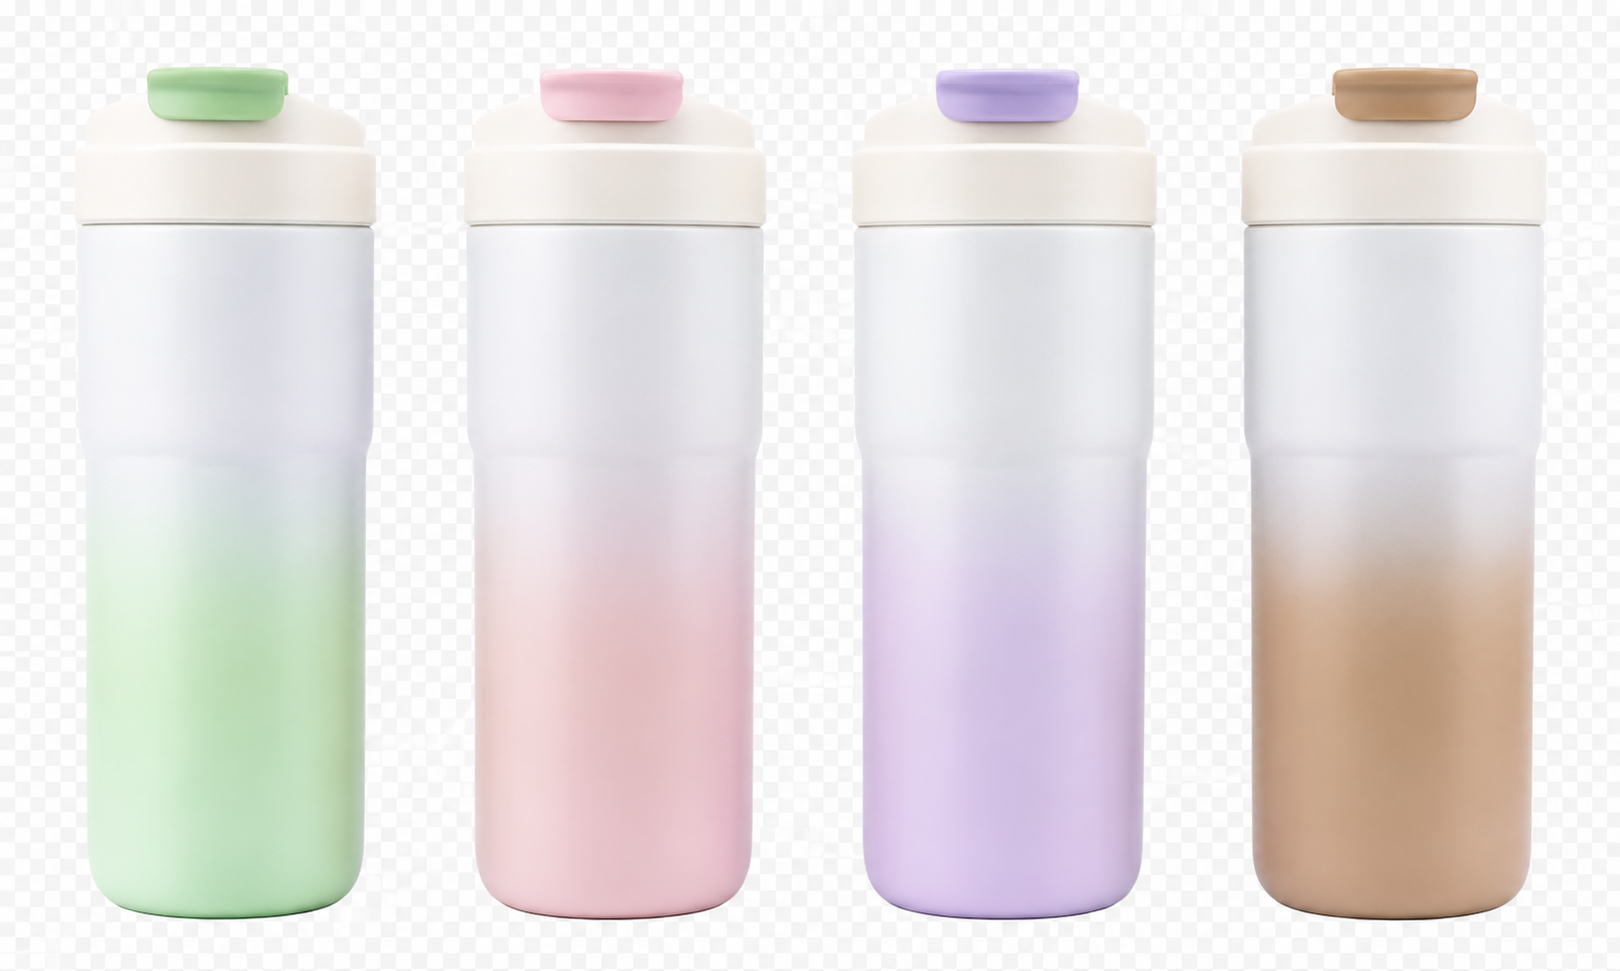
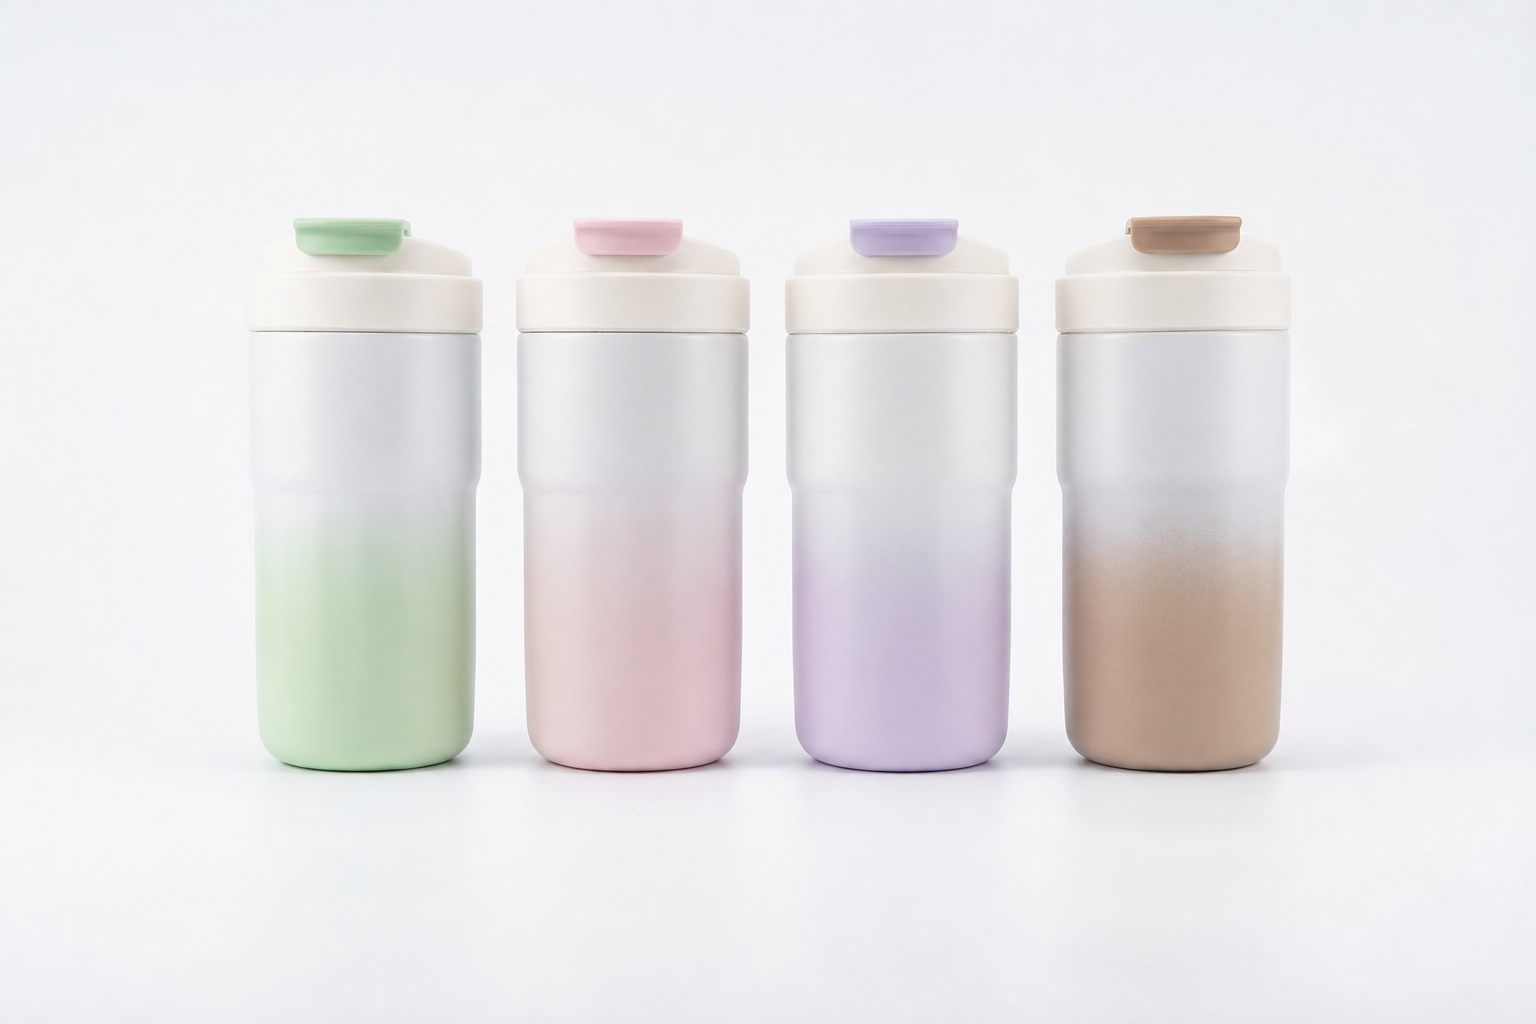
mockup: switch to 保溫瓶正確尺寸 (1536x1024, real photos), update crop coords

diff --git a/js/mockup.js b/js/mockup.js
@@ -2,16 +2,16 @@
 // 底圖(1620×971，4瓶並排) → 裁切對應顏色 → 設計圖貼合 → 高光
 
 const MOCKUP_IMG_SRC = 'assets/thermos/mockup/thermos_4bottles.png';
-const BOTTLE_W = 405;   // 1620 / 4
-const BOTTLE_H = 971;
+const BOTTLE_W = 384;   // 1536 / 4
+const BOTTLE_H = 1024;
 
 // 各顏色在4瓶圖中的裁切起始 X，以及標籤區四角座標（相對裁切後畫面）
 // 瓶子排列：0=薄荷綠 1=櫻花粉 2=奶紫 3=燕麥咖
 const MOCKUP_DATA = {
-  mint_green:  { cropX: 0,    label: { tl:[20,175], tr:[385,175], br:[385,565], bl:[20,565] } },
-  cherry_pink: { cropX: 405,  label: { tl:[20,175], tr:[385,175], br:[385,565], bl:[20,565] } },
-  milk_purple: { cropX: 810,  label: { tl:[20,175], tr:[385,175], br:[385,565], bl:[20,565] } },
-  oat_tea:     { cropX: 1215, label: { tl:[20,175], tr:[385,175], br:[385,565], bl:[20,565] } },
+  mint_green:  { cropX: 0,    label: { tl:[25,130], tr:[359,130], br:[359,690], bl:[25,690] } },
+  cherry_pink: { cropX: 384,  label: { tl:[25,130], tr:[359,130], br:[359,690], bl:[25,690] } },
+  milk_purple: { cropX: 768,  label: { tl:[25,130], tr:[359,130], br:[359,690], bl:[25,690] } },
+  oat_tea:     { cropX: 1152, label: { tl:[25,130], tr:[359,130], br:[359,690], bl:[25,690] } },
 };
 
 function _loadImg(src) {
@@ -55,6 +55,7 @@ async function renderMockup(colorId, designDataURL) {
   const tmpCanvas = document.createElement('canvas');
   tmpCanvas.width  = BOTTLE_W;
   tmpCanvas.height = BOTTLE_H;
+
   const tc = tmpCanvas.getContext('2d');
   tc.save();
   _drawProjective(tc, off, corners, dw, dh);